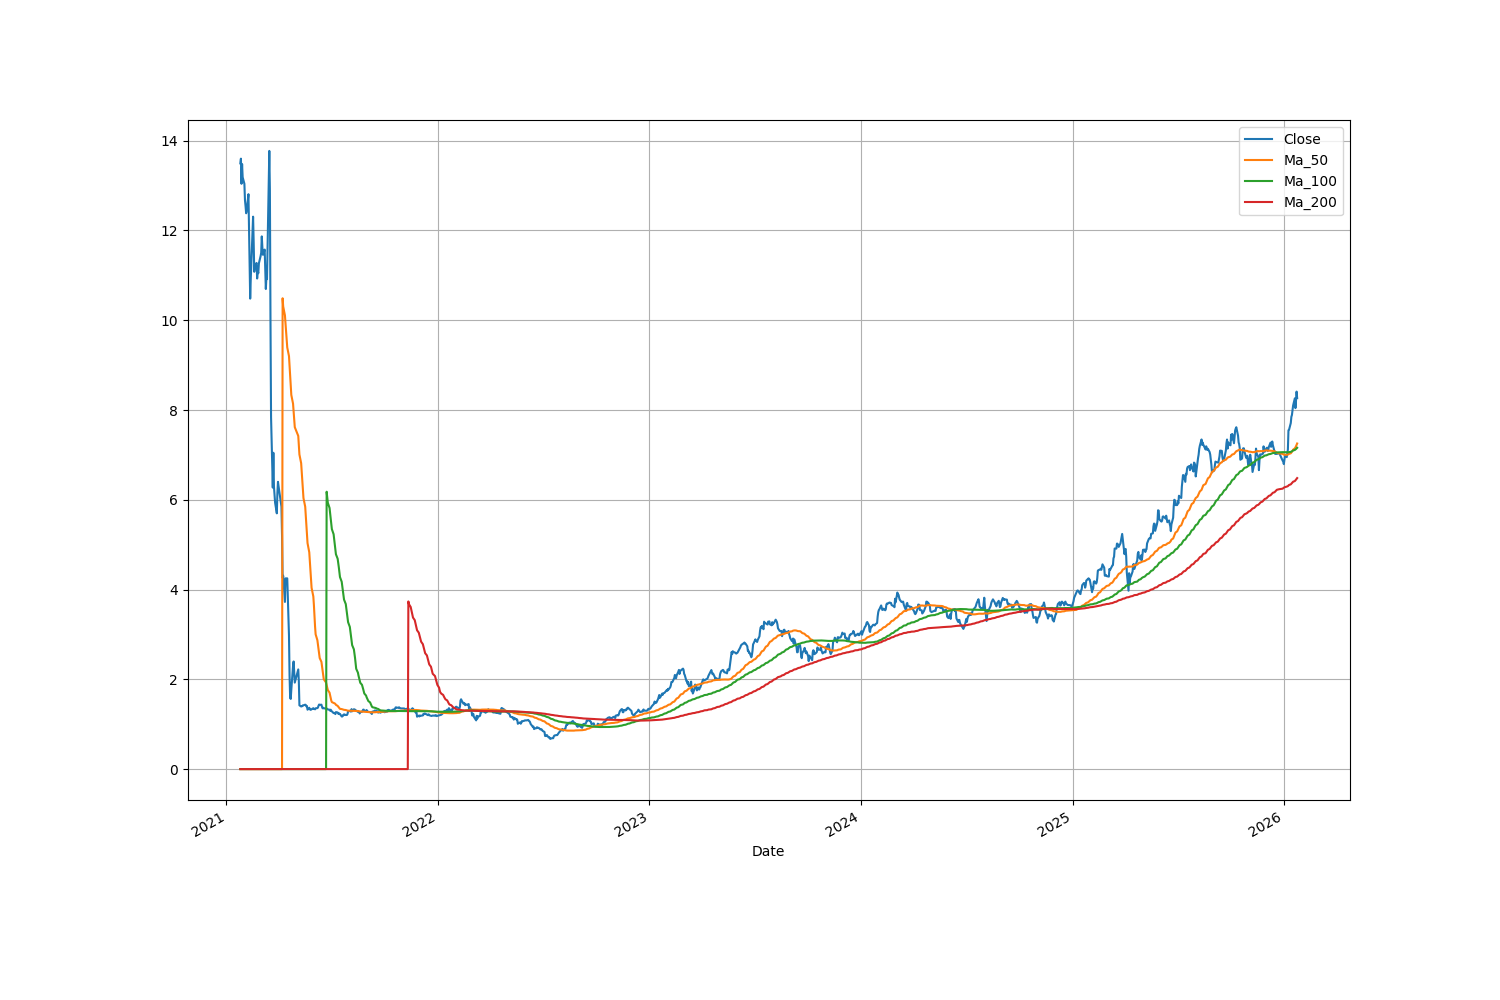
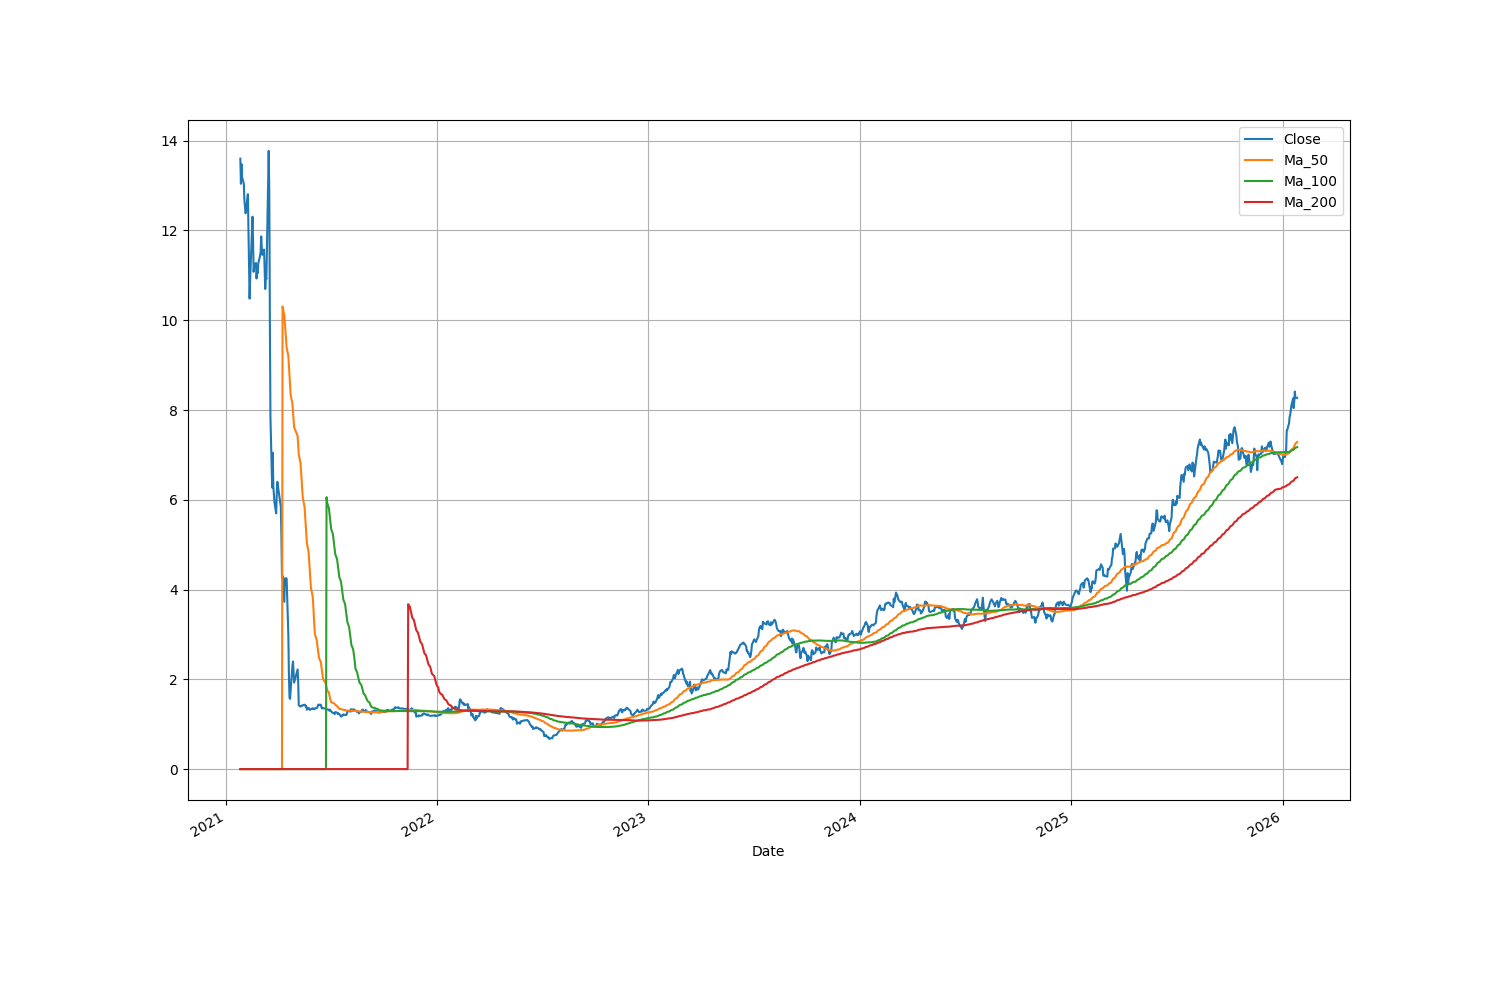
The 12 month charts fixed

diff --git a/equities/templates/equity.html b/equities/templates/equity.html
@@ -8,6 +8,10 @@
         <img src=" {{ equity.source_vwap }}" alt="">
         <img src=" {{ equity.source_moving_averages }}" alt="">
 
+        <img src=" {{ equity.source_close_mo12 }}" alt="">
+        <img src=" {{ equity.source_vwap_mo12 }}" alt="">
+        <img src=" {{ equity.source_moving_averages_mo12 }}" alt="">
+
 
 
 

diff --git a/equities/views.py b/equities/views.py
@@ -103,6 +103,21 @@ def equity(request, id):
             plt.savefig("equities/static/"+data["name"]+"_moving_averages.png")
             data["source_moving_averages"] = "/static/"+data["name"]+"_moving_averages.png"
 
+            mo12_data = e
+            mo12_data["mo12_data"].plot(y="Close",grid=True,figsize=[15,10])
+            plt.savefig("equities/static/mo12_" + data["name"] + "_close.png")
+            mo12_data["source_close_mo12"] = "/static/mo12_" + data["name"] + "_close.png"
+
+            mo12_data["mo12_data"].plot(y=["Close", "Vwap_low", "Vwap_high"], grid=True,figsize=[15,10])
+            plt.savefig("equities/static/mo12_"+data["name"]+"_vwap.png")
+            data["source_vwap_mo12"] = "/static/mo12_"+data["name"]+"_vwap.png"
+
+
+            mo12_data["mo12_data"].plot(y=["Close", "Ma_50","Ma_100","Ma_200"], grid=True,figsize=[15,10])
+            plt.savefig("equities/static/mo12_"+data["name"]+"_moving_averages.png")
+            mo12_data["source_moving_averages_mo12"] = "/static/mo12_"+data["name"]+"_moving_averages.png"
+
+
 
 
 

diff --git a/equities/controllers/tickerController.py b/equities/controllers/tickerController.py
@@ -10,7 +10,14 @@ class TickerController:
         return self.data.history("1mo")
 
     def get_1year_data(self):
-        return self.data.history("12mo")
+        data_to_return = {}
+        temp = self.data.history("12mo")
+        with_vwap = VWAP(temp)
+        data_to_return = with_vwap.get_vwap_ticker()
+
+        ma = MovingAverages(data_to_return)
+        data_to_return = ma.get_all_ma()
+        return data_to_return
 
     def get_5year_data(self):
         data_to_return = {}

diff --git a/equities/controllers/cacheController.py b/equities/controllers/cacheController.py
@@ -30,6 +30,7 @@ class CacheController:
             self.add_equity({
                 "id":e.id,
                 "data":ticker.get_5year_data(),
+                "mo12_data":ticker.get_1year_data(),
                 "name":e.name,
                 "ticker":e.ticker,
                 "description":ticker.get_description()

diff --git a/equities/controllers/vwapController.py b/equities/controllers/vwapController.py
@@ -76,7 +76,7 @@ class VWAP:
     def find_low(self):
 
         prices = self.ticker_data
-        sorted_by_high = prices.sort_values(by="Low")
-        low = sorted_by_high.head(1)
+        sorted_by_low = prices.sort_values(by="Low")
+        low = sorted_by_low.head(1)
         return low.iloc[0]["Low"]
 
